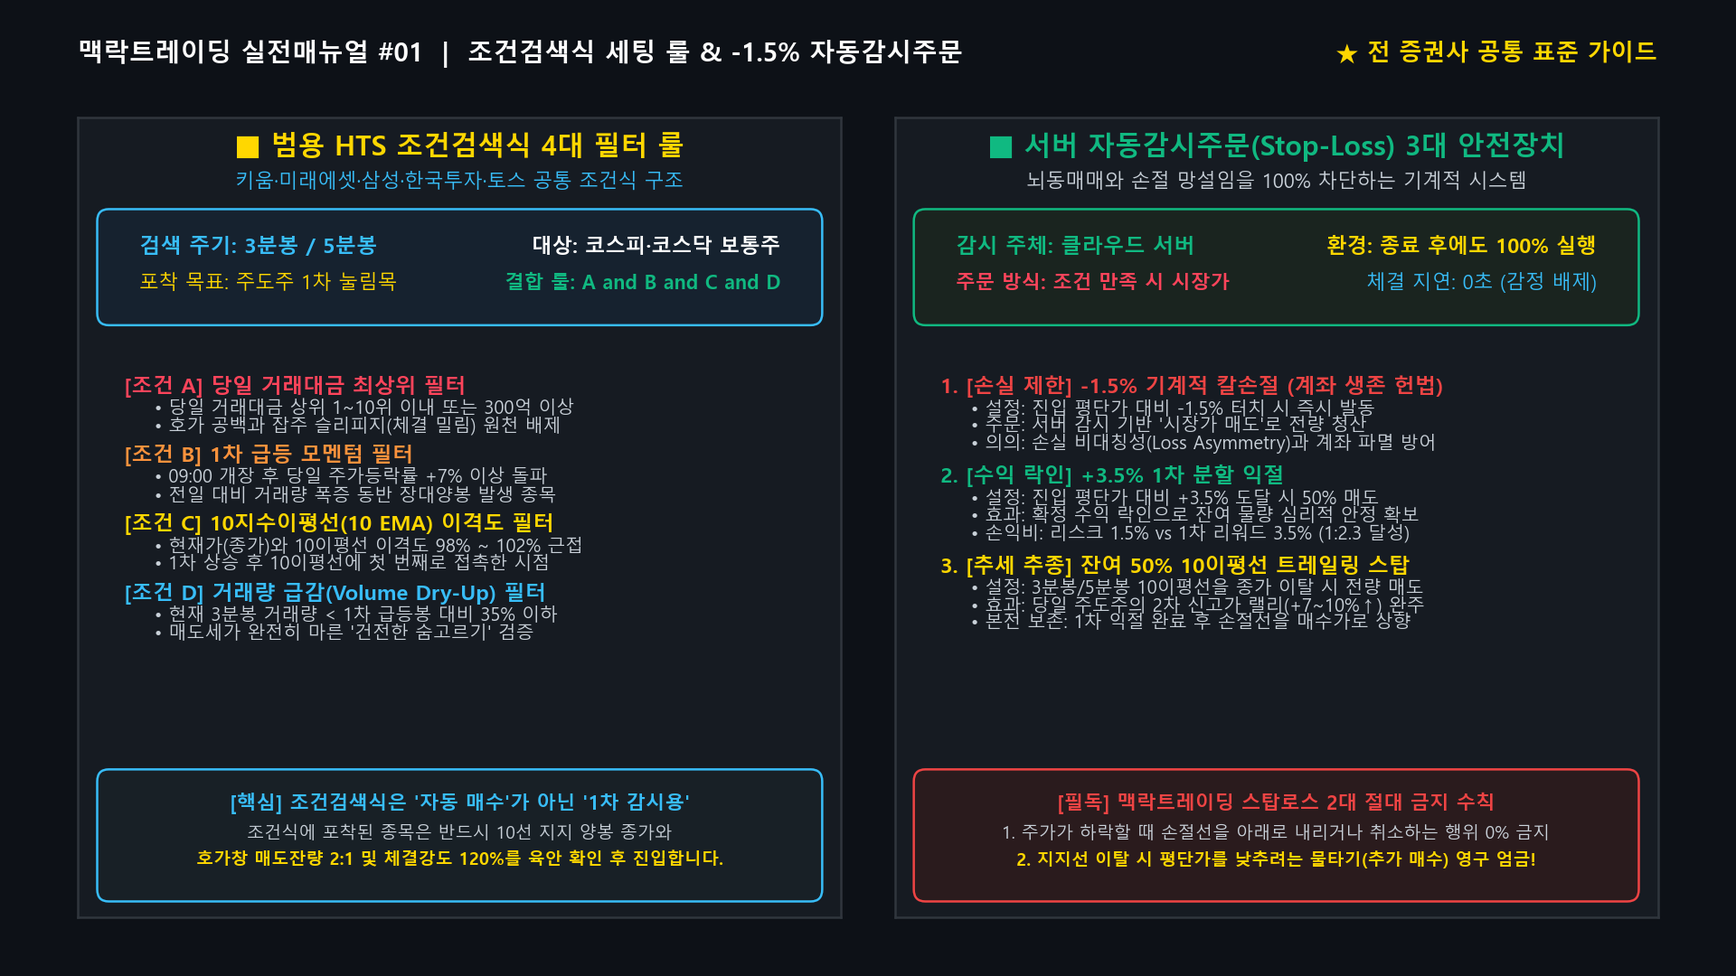
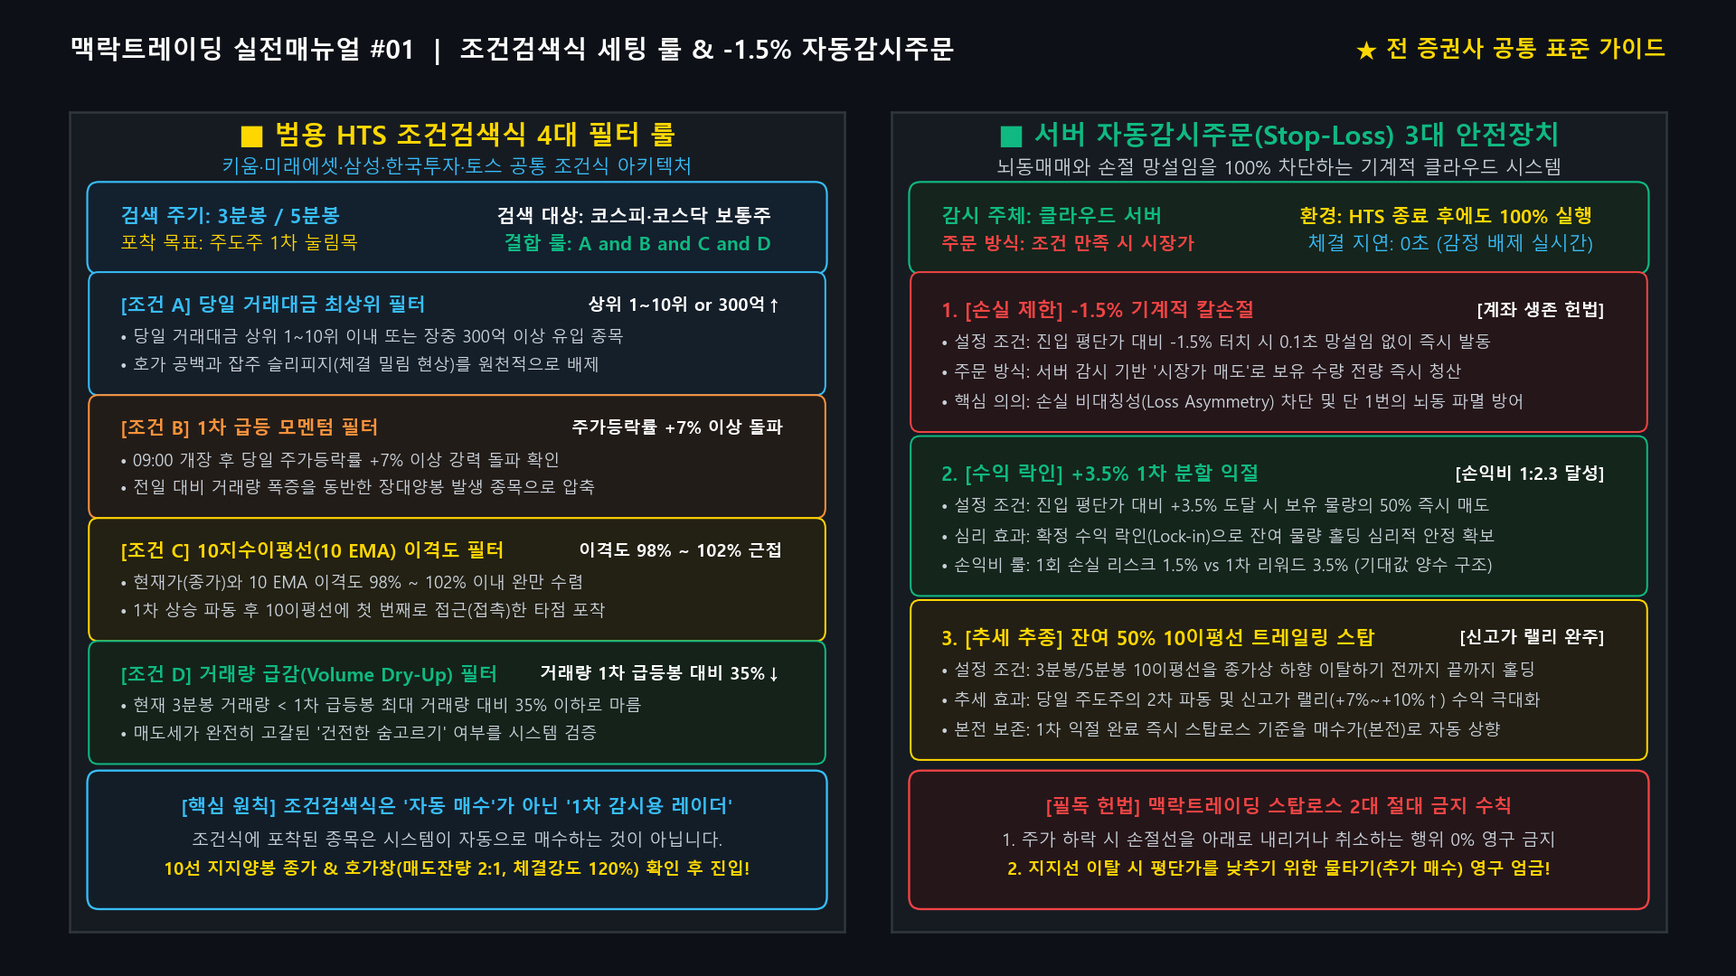
fix(infographics): rebuild condition stoploss guide diagram with equal card spacing and zero dead space

Changed region(s): [[0.0312, 0.0917, 0.9688, 0.9472], [0.0312, 0.0306, 0.5625, 0.0611], [0.7812, 0.0306, 0.9688, 0.0611]]

diff --git a/scripts/generate_strat01_manual_infographics.py b/scripts/generate_strat01_manual_infographics.py
@@ -389,31 +389,32 @@ class Strat01InfographicsGenerator:
     def generate_condition_stoploss_diagram(self) -> Path:
         """
         도안 2: 범용 HTS 조건검색식 세팅 룰 & 서버 자동감시주문(-1.5% 칼손절)
-        - 좌측(50%): 범용 HTS 조건검색식 4대 필터 룰 (키움/미래/삼성/한투/토스 공통 로직)
-        - 우측(50%): 서버 자동감시주문(Stop-Loss) 3대 안전장치 & 손익비 구조도
+        - 좌측(50%): 범용 HTS 조건검색식 4대 필터 룰 (독립 4대 서브 카드 균등 배치)
+        - 우측(50%): 서버 자동감시주문(Stop-Loss) 3대 안전장치 (독립 3대 서브 카드 균등 배치)
+        - 상단 메타 그리드 및 하단 슬림 경고 배너로 휑한 공백(Dead Space) 100% 해소
         - VisualQAGuard 6대 게이트 검증 및 layout_audit.json 기록
         """
         fig = plt.figure(figsize=(16, 9), dpi=120, facecolor=DARK["bg"])
 
-        # 좌/우 패널 분할
+        # 좌/우 패널 분할 (대칭 여백 확보)
         gs = fig.add_gridspec(
             nrows=1, ncols=2,
-            top=0.88, bottom=0.06, left=0.045, right=0.955,
-            wspace=0.07
+            top=0.885, bottom=0.045, left=0.040, right=0.960,
+            wspace=0.060
         )
         ax_left = fig.add_subplot(gs[0])
         ax_right = fig.add_subplot(gs[1])
 
-        # 헤더 타이틀 바
+        # 헤더 타이틀 바 (캔버스 안전 여백 준수)
         fig.text(
-            0.045, 0.945,
+            0.040, 0.948,
             "맥락트레이딩 실전매뉴얼 #01  |  조건검색식 세팅 룰 & -1.5% 자동감시주문",
             color=DARK["text_primary"], fontsize=17.0, fontweight="bold", va="center", ha="left"
         )
         fig.text(
-            0.955, 0.945,
+            0.960, 0.948,
             "★ 전 증권사 공통 표준 가이드",
-            color=DARK["gold"], fontsize=15.5, fontweight="bold", va="center", ha="right"
+            color=DARK["gold"], fontsize=15.0, fontweight="bold", va="center", ha="right"
         )
 
         for ax in (ax_left, ax_right):
@@ -428,128 +429,212 @@ class Strat01InfographicsGenerator:
         # 좌측 패널: ■ 범용 HTS 조건검색식 4대 필터 룰
         # =========================================================================
         ax_left.text(
-            0.5, 0.952, "■ 범용 HTS 조건검색식 4대 필터 룰",
-            color=DARK["gold"], fontsize=18, fontweight="bold", ha="center"
+            0.5, 0.960, "■ 범용 HTS 조건검색식 4대 필터 룰",
+            color=DARK["gold"], fontsize=17.5, fontweight="bold", ha="center"
         )
         ax_left.text(
-            0.5, 0.912, "키움·미래에셋·삼성·한국투자·토스 공통 조건식 구조",
-            color=DARK["cyan"], fontsize=13.0, ha="center"
+            0.5, 0.925, "키움·미래에셋·삼성·한국투자·토스 공통 조건식 아키텍처",
+            color=DARK["cyan"], fontsize=12.5, ha="center"
         )
 
-        # 상단 요약 박스
+        # 1. 상단 요약 배너 (Summary Box)
         summary_l = FancyBboxPatch(
-            (0.04, 0.755), 0.92, 0.115, boxstyle="round,pad=0.015",
-            facecolor="#16222F", edgecolor=DARK["cyan"], linewidth=1.5
+            (0.035, 0.815), 0.930, 0.088, boxstyle="round,pad=0.012,rounding_size=0.015",
+            facecolor="#13202E", edgecolor=DARK["cyan"], linewidth=1.3
         )
         ax_left.add_patch(summary_l)
-        ax_left.text(0.08, 0.830, "검색 주기: 3분봉 / 5분봉", color=DARK["cyan"], fontsize=14.0, fontweight="bold", ha="left")
-        ax_left.text(0.92, 0.830, "대상: 코스피·코스닥 보통주", color=DARK["text_primary"], fontsize=13.5, fontweight="bold", ha="right")
-        ax_left.text(0.08, 0.785, "포착 목표: 주도주 1차 눌림목", color=DARK["gold"], fontsize=13.0, ha="left")
-        ax_left.text(0.92, 0.785, "결합 룰: A and B and C and D", color=DARK["target_green"], fontsize=13.0, fontweight="bold", ha="right")
+        ax_left.text(0.065, 0.865, "검색 주기: 3분봉 / 5분봉", color=DARK["cyan"], fontsize=13.0, fontweight="bold", ha="left")
+        ax_left.text(0.905, 0.865, "검색 대상: 코스피·코스닥 보통주", color=DARK["text_primary"], fontsize=12.5, fontweight="bold", ha="right")
+        ax_left.text(0.065, 0.832, "포착 목표: 주도주 1차 눌림목", color=DARK["gold"], fontsize=12.0, ha="left")
+        ax_left.text(0.905, 0.832, "결합 룰: A and B and C and D", color=DARK["target_green"], fontsize=12.5, fontweight="bold", ha="right")
 
-        # 4대 조건 필터 카드
-        filters = [
-            ("[조건 A] 당일 거래대금 최상위 필터", DARK["bull_red"], [
-                "• 당일 거래대금 상위 1~10위 이내 또는 300억 이상",
-                "• 호가 공백과 잡주 슬리피지(체결 밀림) 원천 배제",
-            ]),
-            ("[조건 B] 1차 급등 모멘텀 필터", DARK["orange"], [
-                "• 09:00 개장 후 당일 주가등락률 +7% 이상 돌파",
-                "• 전일 대비 거래량 폭증 동반 장대양봉 발생 종목",
-            ]),
-            ("[조건 C] 10지수이평선(10 EMA) 이격도 필터", DARK["gold"], [
-                "• 현재가(종가)와 10이평선 이격도 98% ~ 102% 근접",
-                "• 1차 상승 후 10이평선에 첫 번째로 접촉한 시점",
-            ]),
-            ("[조건 D] 거래량 급감(Volume Dry-Up) 필터", DARK["cyan"], [
-                "• 현재 3분봉 거래량 < 1차 급등봉 대비 35% 이하",
-                "• 매도세가 완전히 마른 '건전한 숨고르기' 검증",
-            ]),
+        # 2. 4대 조건 필터 카드 (Equal Spacing 균등 배치: y=0.190 ~ 0.795)
+        # card_h = 0.130, gap = 0.020 -> 4 * 0.130 + 3 * 0.020 = 0.580
+        filter_cards = [
+            {
+                "id": "[조건 A]",
+                "title": "당일 거래대금 최상위 필터",
+                "badge": "상위 1~10위 or 300억↑",
+                "accent": DARK["cyan"],
+                "bg": "#151F2A",
+                "lines": [
+                    "• 당일 거래대금 상위 1~10위 이내 또는 장중 300억 이상 유입 종목",
+                    "• 호가 공백과 잡주 슬리피지(체결 밀림 현상)를 원천적으로 배제"
+                ]
+            },
+            {
+                "id": "[조건 B]",
+                "title": "1차 급등 모멘텀 필터",
+                "badge": "주가등락률 +7% 이상 돌파",
+                "accent": DARK["orange"],
+                "bg": "#221C18",
+                "lines": [
+                    "• 09:00 개장 후 당일 주가등락률 +7% 이상 강력 돌파 확인",
+                    "• 전일 대비 거래량 폭증을 동반한 장대양봉 발생 종목으로 압축"
+                ]
+            },
+            {
+                "id": "[조건 C]",
+                "title": "10지수이평선(10 EMA) 이격도 필터",
+                "badge": "이격도 98% ~ 102% 근접",
+                "accent": DARK["gold"],
+                "bg": "#232014",
+                "lines": [
+                    "• 현재가(종가)와 10 EMA 이격도 98% ~ 102% 이내 완만 수렴",
+                    "• 1차 상승 파동 후 10이평선에 첫 번째로 접근(접촉)한 타점 포착"
+                ]
+            },
+            {
+                "id": "[조건 D]",
+                "title": "거래량 급감(Volume Dry-Up) 필터",
+                "badge": "거래량 1차 급등봉 대비 35%↓",
+                "accent": DARK["target_green"],
+                "bg": "#14221A",
+                "lines": [
+                    "• 현재 3분봉 거래량 < 1차 급등봉 최대 거래량 대비 35% 이하로 마름",
+                    "• 매도세가 완전히 고갈된 '건전한 숨고르기' 여부를 시스템 검증"
+                ]
+            },
         ]
 
-        card_y = 0.655
-        for title, col, lines in filters:
-            ax_left.text(0.06, card_y, title, color=col, fontsize=14.0, fontweight="bold")
-            card_y -= 0.026
-            for raw_line in lines:
-                wrapped = textwrap.wrap(raw_line, width=44)
-                for w_l in wrapped:
-                    ax_left.text(0.10, card_y, w_l, color=DARK["text_secondary"], fontsize=12.0)
-                    card_y -= 0.022
-            card_y -= 0.016
+        card_starts_l = [0.665, 0.515, 0.365, 0.215]
+        card_h_l = 0.130
 
-        # 하단 안내 박스
+        for idx, item in enumerate(filter_cards):
+            c_y = card_starts_l[idx]
+            card_patch = FancyBboxPatch(
+                (0.035, c_y), 0.930, card_h_l, boxstyle="round,pad=0.010,rounding_size=0.012",
+                facecolor=item["bg"], edgecolor=item["accent"], linewidth=1.2
+            )
+            ax_left.add_patch(card_patch)
+
+            # 헤더: ID + 타이틀 (좌측) / 배지 요약 (우측)
+            title_text = f"{item['id']} {item['title']}"
+            ax_left.text(0.065, c_y + 0.098, title_text, color=item["accent"], fontsize=12.5, fontweight="bold", va="center")
+            ax_left.text(0.920, c_y + 0.098, item["badge"], color=DARK["text_primary"], fontsize=11.5, fontweight="bold", ha="right", va="center")
+
+            # 내부 설명 2줄
+            ax_left.text(0.065, c_y + 0.060, item["lines"][0], color=DARK["text_secondary"], fontsize=11.0, va="center")
+            ax_left.text(0.065, c_y + 0.026, item["lines"][1], color=DARK["text_secondary"], fontsize=11.0, va="center")
+
+        # 3. 하단 핵심 안내 배너 (슬림형)
         notice_box_l = FancyBboxPatch(
-            (0.04, 0.035), 0.92, 0.135, boxstyle="round,pad=0.015",
-            facecolor="#182026", edgecolor=DARK["cyan"], linewidth=1.5
+            (0.035, 0.040), 0.930, 0.145, boxstyle="round,pad=0.012,rounding_size=0.015",
+            facecolor="#121D28", edgecolor=DARK["cyan"], linewidth=1.4
         )
         ax_left.add_patch(notice_box_l)
-        ax_left.text(0.50, 0.135, "[핵심] 조건검색식은 '자동 매수'가 아닌 '1차 감시용'", color=DARK["cyan"], fontsize=13.0, fontweight="bold", ha="center")
-        ax_left.text(0.50, 0.098, "조건식에 포착된 종목은 반드시 10선 지지 양봉 종가와", color=DARK["text_secondary"], fontsize=11.5, ha="center")
-        ax_left.text(0.50, 0.065, "호가창 매도잔량 2:1 및 체결강도 120%를 육안 확인 후 진입합니다.", color=DARK["gold"], fontsize=11.5, fontweight="bold", ha="center")
+        ax_left.text(0.50, 0.145, "[핵심 원칙] 조건검색식은 '자동 매수'가 아닌 '1차 감시용 레이더'", color=DARK["cyan"], fontsize=12.5, fontweight="bold", ha="center")
+        ax_left.text(0.50, 0.105, "조건식에 포착된 종목은 시스템이 자동으로 매수하는 것이 아닙니다.", color=DARK["text_secondary"], fontsize=11.5, ha="center")
+        ax_left.text(0.50, 0.070, "10선 지지양봉 종가 & 호가창(매도잔량 2:1, 체결강도 120%) 확인 후 진입!", color=DARK["gold"], fontsize=11.5, fontweight="bold", ha="center")
 
         # =========================================================================
         # 우측 패널: ■ 서버 자동감시주문(Stop-Loss) 3대 안전장치
         # =========================================================================
         ax_right.text(
-            0.5, 0.952, "■ 서버 자동감시주문(Stop-Loss) 3대 안전장치",
-            color=DARK["target_green"], fontsize=18, fontweight="bold", ha="center"
+            0.5, 0.960, "■ 서버 자동감시주문(Stop-Loss) 3대 안전장치",
+            color=DARK["target_green"], fontsize=17.5, fontweight="bold", ha="center"
         )
         ax_right.text(
-            0.5, 0.912, "뇌동매매와 손절 망설임을 100% 차단하는 기계적 시스템",
-            color=DARK["text_secondary"], fontsize=13.0, ha="center"
+            0.5, 0.925, "뇌동매매와 손절 망설임을 100% 차단하는 기계적 클라우드 시스템",
+            color=DARK["text_secondary"], fontsize=12.5, ha="center"
         )
 
-        # 상단 요약 박스
+        # 1. 상단 요약 배너 (Summary Box)
         summary_r = FancyBboxPatch(
-            (0.04, 0.755), 0.92, 0.115, boxstyle="round,pad=0.015",
-            facecolor="#1A241F", edgecolor=DARK["target_green"], linewidth=1.5
+            (0.035, 0.815), 0.930, 0.088, boxstyle="round,pad=0.012,rounding_size=0.015",
+            facecolor="#15241C", edgecolor=DARK["target_green"], linewidth=1.3
         )
         ax_right.add_patch(summary_r)
-        ax_right.text(0.08, 0.830, "감시 주체: 클라우드 서버", color=DARK["target_green"], fontsize=14.0, fontweight="bold", ha="left")
-        ax_right.text(0.92, 0.830, "환경: 종료 후에도 100% 실행", color=DARK["gold"], fontsize=13.5, fontweight="bold", ha="right")
-        ax_right.text(0.08, 0.785, "주문 방식: 조건 만족 시 시장가", color=DARK["bull_red"], fontsize=13.0, fontweight="bold", ha="left")
-        ax_right.text(0.92, 0.785, "체결 지연: 0초 (감정 배제)", color=DARK["cyan"], fontsize=13.0, ha="right")
+        ax_right.text(0.065, 0.865, "감시 주체: 클라우드 서버", color=DARK["target_green"], fontsize=13.0, fontweight="bold", ha="left")
+        ax_right.text(0.905, 0.865, "환경: HTS 종료 후에도 100% 실행", color=DARK["gold"], fontsize=12.5, fontweight="bold", ha="right")
+        ax_right.text(0.065, 0.832, "주문 방식: 조건 만족 시 시장가", color=DARK["stop_red"], fontsize=12.0, fontweight="bold", ha="left")
+        ax_right.text(0.905, 0.832, "체결 지연: 0초 (감정 배제 실시간)", color=DARK["cyan"], fontsize=12.5, ha="right")
 
-        # 3대 안전장치 카드
-        safeties = [
-            ("1. [손실 제한] -1.5% 기계적 칼손절 (계좌 생존 헌법)", DARK["stop_red"], [
-                "• 설정: 진입 평단가 대비 -1.5% 터치 시 즉시 발동",
-                "• 주문: 서버 감시 기반 '시장가 매도'로 전량 청산",
-                "• 의의: 손실 비대칭성(Loss Asymmetry)과 계좌 파멸 방어",
-            ]),
-            ("2. [수익 락인] +3.5% 1차 분할 익절", DARK["target_green"], [
-                "• 설정: 진입 평단가 대비 +3.5% 도달 시 50% 매도",
-                "• 효과: 확정 수익 락인으로 잔여 물량 심리적 안정 확보",
-                "• 손익비: 리스크 1.5% vs 1차 리워드 3.5% (1:2.3 달성)",
-            ]),
-            ("3. [추세 추종] 잔여 50% 10이평선 트레일링 스탑", DARK["gold"], [
-                "• 설정: 3분봉/5분봉 10이평선을 종가 이탈 시 전량 매도",
-                "• 효과: 당일 주도주의 2차 신고가 랠리(+7~10%↑) 완주",
-                "• 본전 보존: 1차 익절 완료 후 손절선을 매수가로 상향",
-            ]),
+        # 2. 3대 안전장치 와이드 카드 (Equal Spacing 균등 배치: y=0.215 ~ 0.795)
+        # card_h = 0.175, gap = 0.025 -> 3 * 0.175 + 2 * 0.025 = 0.575
+        safety_cards = [
+            {
+                "id": "1. [손실 제한]",
+                "title": "-1.5% 기계적 칼손절",
+                "badge": "[계좌 생존 헌법]",
+                "accent": DARK["stop_red"],
+                "bg": "#251619",
+                "lines": [
+                    "• 설정 조건: 진입 평단가 대비 -1.5% 터치 시 0.1초 망설임 없이 즉시 발동",
+                    "• 주문 방식: 서버 감시 기반 '시장가 매도'로 보유 수량 전량 즉시 청산",
+                    "• 핵심 의의: 손실 비대칭성(Loss Asymmetry) 차단 및 단 1번의 뇌동 파멸 방어"
+                ]
+            },
+            {
+                "id": "2. [수익 락인]",
+                "title": "+3.5% 1차 분할 익절",
+                "badge": "[손익비 1:2.3 달성]",
+                "accent": DARK["target_green"],
+                "bg": "#14251B",
+                "lines": [
+                    "• 설정 조건: 진입 평단가 대비 +3.5% 도달 시 보유 물량의 50% 즉시 매도",
+                    "• 심리 효과: 확정 수익 락인(Lock-in)으로 잔여 물량 홀딩 심리적 안정 확보",
+                    "• 손익비 룰: 1회 손실 리스크 1.5% vs 1차 리워드 3.5% (기대값 양수 구조)"
+                ]
+            },
+            {
+                "id": "3. [추세 추종]",
+                "title": "잔여 50% 10이평선 트레일링 스탑",
+                "badge": "[신고가 랠리 완주]",
+                "accent": DARK["gold"],
+                "bg": "#231F14",
+                "lines": [
+                    "• 설정 조건: 3분봉/5분봉 10이평선을 종가상 하향 이탈하기 전까지 끝까지 홀딩",
+                    "• 추세 효과: 당일 주도주의 2차 파동 및 신고가 랠리(+7%~+10%↑) 수익 극대화",
+                    "• 본전 보존: 1차 익절 완료 즉시 스탑로스 기준을 매수가(본전)로 자동 상향"
+                ]
+            },
         ]
 
-        card_y = 0.655
-        for title, col, lines in safeties:
-            ax_right.text(0.06, card_y, title, color=col, fontsize=14.0, fontweight="bold")
-            card_y -= 0.026
-            for raw_line in lines:
-                wrapped = textwrap.wrap(raw_line, width=44)
-                for w_l in wrapped:
-                    ax_right.text(0.10, card_y, w_l, color=DARK["text_secondary"], fontsize=12.0)
-                    card_y -= 0.022
-            card_y -= 0.020
+        card_starts_r = [0.620, 0.420, 0.220]
+        card_h_r = 0.175
 
-        # 하단 경고 박스
+        for idx, item in enumerate(safety_cards):
+            c_y = card_starts_r[idx]
+            card_patch = FancyBboxPatch(
+                (0.035, c_y), 0.930, card_h_r, boxstyle="round,pad=0.010,rounding_size=0.012",
+                facecolor=item["bg"], edgecolor=item["accent"], linewidth=1.2
+            )
+            ax_right.add_patch(card_patch)
+
+            # 헤더: ID + 타이틀 (좌측) / 배지 요약 (우측)
+            title_text = f"{item['id']} {item['title']}"
+            ax_right.text(0.065, c_y + 0.138, title_text, color=item["accent"], fontsize=13.0, fontweight="bold", va="center")
+            ax_right.text(0.920, c_y + 0.138, item["badge"], color=DARK["text_primary"], fontsize=11.5, fontweight="bold", ha="right", va="center")
+
+            # 내부 설명 3줄
+            ax_right.text(0.065, c_y + 0.098, item["lines"][0], color=DARK["text_secondary"], fontsize=11.0, va="center")
+            ax_right.text(0.065, c_y + 0.062, item["lines"][1], color=DARK["text_secondary"], fontsize=11.0, va="center")
+            ax_right.text(0.065, c_y + 0.026, item["lines"][2], color=DARK["text_secondary"], fontsize=11.0, va="center")
+
+        # 3. 하단 경고 배너 (슬림형)
         alert_box_r = FancyBboxPatch(
-            (0.04, 0.035), 0.92, 0.135, boxstyle="round,pad=0.015",
-            facecolor="#2A1B1D", edgecolor=DARK["stop_red"], linewidth=1.5
+            (0.035, 0.040), 0.930, 0.145, boxstyle="round,pad=0.012,rounding_size=0.015",
+            facecolor="#251619", edgecolor=DARK["stop_red"], linewidth=1.4
         )
         ax_right.add_patch(alert_box_r)
-        ax_right.text(0.50, 0.135, "[필독] 맥락트레이딩 스탑로스 2대 절대 금지 수칙", color=DARK["stop_red"], fontsize=13.0, fontweight="bold", ha="center")
-        ax_right.text(0.50, 0.098, "1. 주가가 하락할 때 손절선을 아래로 내리거나 취소하는 행위 0% 금지", color=DARK["text_secondary"], fontsize=11.5, ha="center")
-        ax_right.text(0.50, 0.065, "2. 지지선 이탈 시 평단가를 낮추려는 물타기(추가 매수) 영구 엄금!", color=DARK["gold"], fontsize=11.5, fontweight="bold", ha="center")
+        ax_right.text(0.50, 0.145, "[필독 헌법] 맥락트레이딩 스탑로스 2대 절대 금지 수칙", color=DARK["stop_red"], fontsize=12.5, fontweight="bold", ha="center")
+        ax_right.text(0.50, 0.105, "1. 주가 하락 시 손절선을 아래로 내리거나 취소하는 행위 0% 영구 금지", color=DARK["text_secondary"], fontsize=11.5, ha="center")
+        ax_right.text(0.50, 0.070, "2. 지지선 이탈 시 평단가를 낮추기 위한 물타기(추가 매수) 영구 엄금!", color=DARK["gold"], fontsize=11.5, fontweight="bold", ha="center")
+
+        # VisualQAGuard 6대 게이트 검증
+        qa_meta = VisualQAGuard.assert_zero_visual_defects(fig, "STRAT01_Condition_StopLoss_Guide")
+
+        out_path = self.output_dir / "chart_strat01_condition_stoploss_guide.png"
+        plt.savefig(out_path, dpi=120, facecolor=DARK["bg"], edgecolor="none")
+        plt.close(fig)
+
+        # 루트 에셋 디렉터리 미러링
+        shutil.copyfile(out_path, self.root_img_dir / "chart_strat01_condition_stoploss_guide.png")
+
+        # SHA-256 감사 매니페스트 기록
+        self.manifest.record_asset(out_path, qa_meta)
+        return out_path
 
         # VisualQAGuard 6대 게이트 검증
         qa_meta = VisualQAGuard.assert_zero_visual_defects(fig, "STRAT01_Condition_StopLoss_Guide")

diff --git a/scripts/visual_qa_guard.py b/scripts/visual_qa_guard.py
@@ -171,12 +171,16 @@ class VisualQAGuard:
                         t_bb = t.get_window_extent(renderer)
                         t_cx = (t_bb.x0 + t_bb.x1) / 2
                         t_cy = (t_bb.y0 + t_bb.y1) / 2
-                        # 텍스트의 x 중심이 박스 안에 있고, y 중심이 박스 내부 및 하단 인근에 걸쳐 있는 경우 (컨테이너 소속 판별)
-                        if p_bb.x0 <= t_cx <= p_bb.x1 and (p_bb.y0 - 40.0) <= t_cy <= (p_bb.y1 - 10.0):
-                            # 박스 하단 테두리 밖 탈출 하드 검증
+                        # 텍스트의 중심점(t_cx, t_cy)이 박스 내부에 위치하는 경우 (컨테이너 소속 엄격 판별)
+                        if (p_bb.x0 <= t_cx <= p_bb.x1) and (p_bb.y0 <= t_cy <= p_bb.y1):
+                            # 박스 하단/상단 테두리 밖 탈출 하드 검증
                             if t_bb.y0 < p_bb.y0:
                                 raise AssertionError(
                                     f"[{name}] Gate 5 박스 하단 탈출: '{t.get_text()[:15]}' y0={t_bb.y0:.1f}px (< 박스하단 {p_bb.y0:.1f}px)"
+                                )
+                            if t_bb.y1 > p_bb.y1:
+                                raise AssertionError(
+                                    f"[{name}] Gate 5 박스 상단 탈출: '{t.get_text()[:15]}' y1={t_bb.y1:.1f}px (> 박스상단 {p_bb.y1:.1f}px)"
                                 )
 
                             pad_left = t_bb.x0 - p_bb.x0
